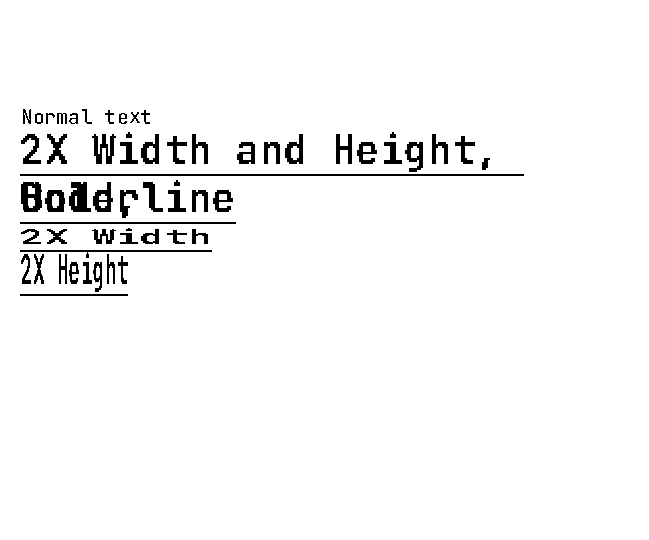
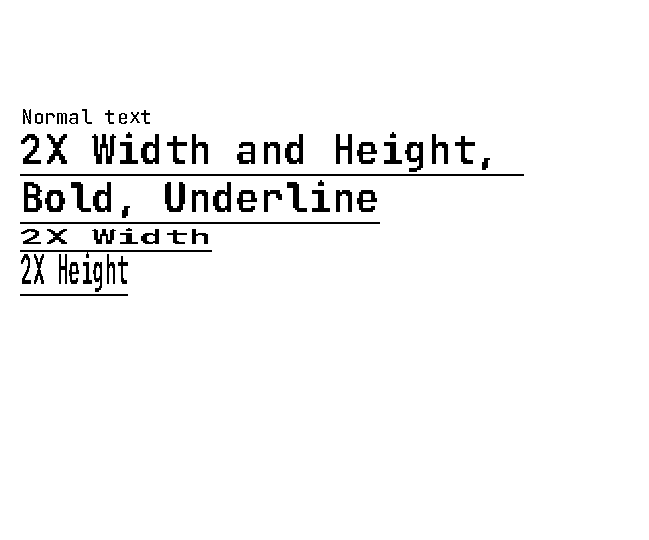
More work on typography

diff --git a/thermal_renderer/src/renderer.rs b/thermal_renderer/src/renderer.rs
@@ -2,7 +2,7 @@ use std::mem;
 use thermal_parser::command::{Command, CommandType, DeviceCommand};
 use thermal_parser::context::{Context, HumanReadableInterface, Rotation, TextJustify};
 use thermal_parser::graphics::{Barcode, Code2D, GraphicsCommand, Image, Rectangle, VectorGraphic};
-use thermal_parser::text::{TextSpan};
+use thermal_parser::text::TextSpan;
 
 pub struct RenderOutput<Output> {
     pub output: Vec<Output>,
@@ -53,6 +53,7 @@ impl<'a, Output> Renderer<'a, Output> {
         }
     }
 
+    #[allow(dead_code)]
     fn debug(&mut self, info: &str) {
         self.debug_buffer.push(info.to_string());
     }
@@ -122,7 +123,7 @@ impl<'a, Output> Renderer<'a, Output> {
                         //Start the render at two newlines worth of height
                         self.context.newline(2);
                         self.renderer.begin_render(&mut self.context)
-                    },
+                    }
                     DeviceCommand::EndPrint => {
                         self.process_text();
                         let output = self.renderer.end_render(&mut self.context);
@@ -163,9 +164,9 @@ impl<'a, Output> Renderer<'a, Output> {
                         self.renderer
                             .page_area_changed(&mut self.context, rotation, width, height);
                     }
-                    DeviceCommand::ChangeTabs(count,at) => {
+                    DeviceCommand::ChangeTabs(count, at) => {
                         self.process_text();
-                        self.context.set_tab_len(*count,*at);
+                        self.context.set_tab_len(*count, *at);
                     }
                     _ => {}
                 }
@@ -287,7 +288,7 @@ impl<'a, Output> Renderer<'a, Output> {
         let mut words: Vec<TextSpan> = vec![];
 
         for span in &self.span_buffer {
-            let mut spans : Vec<TextSpan> = span.break_into_words();
+            let mut spans: Vec<TextSpan> = span.break_into_words();
             words.append(&mut spans);
         }
 
@@ -300,7 +301,9 @@ impl<'a, Output> Renderer<'a, Output> {
         words.reverse();
 
         while let Some(mut word) = words.pop() {
-            if word.stretch_height > 1.0 { current_line_height_mult = 2 }
+            if word.stretch_height > 1.0 {
+                current_line_height_mult = 2
+            }
 
             //Calculate available width every loop
             let avail_width = self.context.get_available_width();
@@ -343,35 +346,6 @@ impl<'a, Output> Renderer<'a, Output> {
                     (max_width / word.character_width) as usize,
                 );
 
-                //Start of broken word can fit on current line
-                if word_width <= avail_width {
-                    //Add the part that fits into the line
-                    word.get_dimensions(&self.context);
-                    self.context.offset_x(word.get_width());
-                    current_line.push(word);
-
-                    //Line is full
-                    let mut finished_line = vec![];
-                    mem::swap(&mut current_line, &mut finished_line);
-                    lines.push(finished_line);
-                    self.context.newline(current_line_height_mult);
-                }
-                //Start of broken word can NOT fit on current line
-                else {
-                    //Line is full
-                    let mut finished_line = vec![];
-                    mem::swap(&mut current_line, &mut finished_line);
-                    lines.push(finished_line);
-                    self.context.newline(current_line_height_mult);
-
-                    //Add the part that fits into the line
-                    word.get_dimensions(&self.context);
-                    self.context.offset_x(word.get_width());
-                    current_line.push(word);
-                }
-
-                // Handle remaining parts of the broken word
-                if broken.is_empty() { continue; }
                 let broken_len = broken.len() - 1;
                 for (i, broke) in broken.iter_mut().enumerate() {
                     let last = broken_len == i;
@@ -379,35 +353,29 @@ impl<'a, Output> Renderer<'a, Output> {
                     current_line.push(broke.clone()); //ugg
 
                     if last {
-                        println!("LAST BROKEN WORD {}", broke.text);
+                        //Last word doesn't geta a forced newline
                         self.context.offset_x(broke.get_width());
                     } else {
-                        println!("BROKEN WORD {}", broke.text);
+                        //Every other line we assume will fit into a line
                         let mut finished_line = vec![];
                         mem::swap(&mut current_line, &mut finished_line);
                         lines.push(finished_line);
                         self.context.newline(current_line_height_mult);
                     }
-
-                    // Add the part to the current (or new) line
-                    broke.get_dimensions(&self.context);
-                    self.context.offset_x(broke.get_width());
-                    current_line.push(broke.clone());
                 }
-
             } else {
                 //Close out previous line
                 let mut finished_line = vec![];
                 mem::swap(&mut current_line, &mut finished_line);
                 lines.push(finished_line);
                 self.context.newline(current_line_height_mult);
-                
+
                 //Add text to newline at 0 x
                 let word_width = word.get_width();
                 word.get_dimensions(&self.context);
                 current_line.push(word);
                 current_line_height_mult = 1;
-                
+
                 //Advance the x
                 self.context.offset_x(word_width);
             }
@@ -419,7 +387,9 @@ impl<'a, Output> Renderer<'a, Output> {
 
         //Adjust lines for justification
         for line in &lines {
-            if line.is_empty() { continue }
+            if line.is_empty() {
+                continue;
+            }
             let justification = line.first().unwrap().justify.clone();
 
             let max_width = self.context.get_width();
@@ -442,7 +412,8 @@ impl<'a, Output> Renderer<'a, Output> {
                 _ => {}
             }
 
-            self.renderer.render_text(&mut self.context, line, line_offset, justification);
+            self.renderer
+                .render_text(&mut self.context, line, line_offset, justification);
         }
     }
 }
@@ -461,7 +432,13 @@ pub trait OutputRenderer<Output> {
     fn render_page(&mut self, _context: &mut Context);
     fn render_graphics(&mut self, context: &mut Context, graphics: &Vec<VectorGraphic>);
     fn render_image(&mut self, context: &mut Context, image: &Image);
-    fn render_text(&mut self, context: &mut Context, spans: &Vec<TextSpan>, x_offset: u32, text_justify: TextJustify);
+    fn render_text(
+        &mut self,
+        context: &mut Context,
+        spans: &Vec<TextSpan>,
+        x_offset: u32,
+        text_justify: TextJustify,
+    );
     fn device_command(&mut self, context: &mut Context, command: &DeviceCommand);
     fn end_render(&mut self, context: &mut Context) -> Output;
 }

diff --git a/thermal_parser/src/text.rs b/thermal_parser/src/text.rs
@@ -76,20 +76,28 @@ impl TextSpan {
     }
 
     pub fn break_apart(&mut self, first_at: usize, rest_at: usize) -> Vec<TextSpan> {
-        println!("Break apart long word {}",self.text);
+        println!("First at {} rest at {}", first_at, rest_at);
         let mut spans = vec![];
 
-        // Handle edge cases where the indexes don't make sense
-        if first_at >= rest_at || first_at >= self.text.len() {
+        let text = self.text.clone();
+
+        //Nothing to break up
+        if rest_at == 0 || text.len() < first_at {
+            spans.push(self.clone());
             return spans;
         }
 
-        let text = self.text.clone();
         let first = &text[0..first_at];
-        self.text = first.to_string();
 
-        if text.len() - 1  < rest_at { return spans; }
-        
+        let mut first_span = self.clone();
+        first_span.text = first.to_string();
+
+        spans.push(first_span);
+
+        if text.len() - 1 < rest_at {
+            return spans;
+        }
+
         let mut last = &text[first_at..];
 
         // Now break the `last` string into spans of size `rest_at`
@@ -102,7 +110,7 @@ impl TextSpan {
                 next_span = last;
                 last = "";
             }
-            
+
             let mut span = self.clone();
             span.text = next_span.to_string();
             spans.push(span);

diff --git a/thermal_renderer/src/image_renderer/mod.rs b/thermal_renderer/src/image_renderer/mod.rs
@@ -138,16 +138,26 @@ impl OutputRenderer<ReceiptImage> for ImageRenderer {
         }
     }
 
-    fn render_text(&mut self, context: &mut Context, spans: &Vec<TextSpan>, x_offset: u32, _text_justify: TextJustify) {
-        let canvas = if context.page_mode.enabled { &mut self.page_image } else { &mut self.image };
+    fn render_text(
+        &mut self,
+        context: &mut Context,
+        spans: &Vec<TextSpan>,
+        x_offset: u32,
+        _text_justify: TextJustify,
+    ) {
+        let canvas = if context.page_mode.enabled {
+            &mut self.page_image
+        } else {
+            &mut self.image
+        };
 
         for span in spans {
+            println!("Print text {:?}", span);
             if let Some(_) = &span.dimensions {
                 canvas.render_span(x_offset, span);
             }
         }
     }
-
 
     fn device_command(&mut self, _context: &mut Context, _command: &DeviceCommand) {}
 

diff --git a/thermal_parser/src/commands/set_character_size.rs b/thermal_parser/src/commands/set_character_size.rs
@@ -9,10 +9,12 @@ impl CommandHandler for Handler {
         let n = *command.data.get(0).unwrap_or(&0u8);
 
         //last 4,5,6 bits masked
+        //   ---
         //11110101 -> 00000101
         context.text.height_mult = 0b00000111 & n + 1;
 
         //bit 1,2,3 masked and shifted all the way to the right // ***
+        // ---
         //01010101 -> 01010000 -> 00000101
         context.text.width_mult = ((0b01110000 & n) >> 4) + 1;
     }

diff --git a/thermal_parser/src/thermal_file.rs b/thermal_parser/src/thermal_file.rs
@@ -180,7 +180,7 @@ fn parse_tokens(line: &str) -> Vec<&str> {
     tokens
 }
 
-pub fn parse_binary(bytes: Vec<u8>) -> Vec<String> {
+pub fn parse_binary(_bytes: Vec<u8>) -> Vec<String> {
     let lines: Vec<String> = vec![];
     lines
 }
